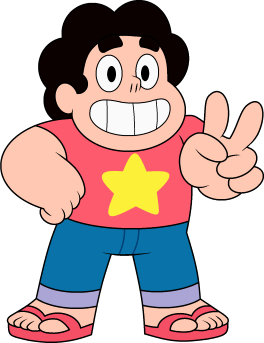
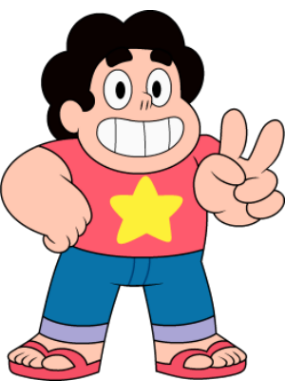
styled images to be similarly sized

diff --git a/testApp/App.js b/testApp/App.js
@@ -10,8 +10,10 @@ export default class App extends React.Component {
       isRotate: true,
       spinSpeed: 1.1,
       imageOfSteven: require('./imageFile/stevenUniverse.png'),
-      dizzyCounter: 0
+      dizzyCounter: 0,
+      needlePosition: '-90deg'
     }
+    const needleData = this.state.needlePosition;
   }
 
   StartImageRotateFunction() {
@@ -24,7 +26,6 @@ export default class App extends React.Component {
         easing: Easing.linear
       }
     ).start(() => this.StartImageRotateFunction())
-
   }
 
   componentDidMount() {
@@ -33,7 +34,7 @@ export default class App extends React.Component {
 
   clickCat(e) {
     e.preventDefault();
-    console.log(this.state.spinSpeed);
+    console.log(this.needleData);
     if( this.state.spinSpeed === 1.1 || this.state.spinSpeed === 0) {
       this.setState({
         spinSpeed: 1
@@ -48,7 +49,8 @@ export default class App extends React.Component {
     } else {
       this.setState({
          someStuff: "WHEEEEEEEEEE",
-         spinSpeed: this.state.spinSpeed - .1
+         spinSpeed: this.state.spinSpeed - .1,
+         // needlePosition: this.state.needlePosition + 15
       });
     }
     if ( this.state.dizzyCounter === 1) {
@@ -66,10 +68,12 @@ export default class App extends React.Component {
     this.setState({
       someStuff: "Here we go!",
       imageOfSteven: require('./imageFile/stevenUniverse.png'),
-      dizzyCounter: 0
+      dizzyCounter: 0,
+      spinSpeed: 1.1
     });
-    this.StartImageRotateFunction();
+    this.render();
   }
+
 
   render() {
     const rotateData = this.RotateValueHolder.interpolate({
@@ -78,29 +82,66 @@ export default class App extends React.Component {
     })
 
     return (
-        <View style={styles.container}>
+      <View style={styles.container1}>
+        <View style={styles.container2}>
           <Text style={styles.header}>SPIN THE STEVEN!</Text>
           <TouchableWithoutFeedback onPress={(e) => this.clickCat(e)}>
-            <Animated.Image
-               style={{ transform: [{ rotate: rotateData }] }}
-               source={this.state.imageOfSteven}
-             />
-         </TouchableWithoutFeedback>
-           <Text>{this.state.someStuff}</Text>
-           <Text onPress={(e) => this.clickCat(e)} style={styles.reset}>Start Over</Text>
+            <Animated.Image style={styles.steven, { transform: [{ rotate: rotateData }] }} source={this.state.imageOfSteven}
+            />
+          </TouchableWithoutFeedback>
+          <Text>{this.state.someStuff}</Text>
+          <Text onPress={(e) => this.resetClick(e)}  style={styles.reset}>Start Over</Text>
         </View>
+        <View style={styles.container3}>
+          <Image source= {require('./imageFile/speedDial.png')} style={styles.dial} />
+        </View>
+        <View style={styles.container4}>
+          <Image source= {require('./imageFile/speedNeedle.png')} style={ styles.needle } />
+        </View>
+      </View>
     );
   }
 }
 
 const styles = StyleSheet.create({
-  container: {
-    flex: 1,
+  container1: {
+    display: 'flex',
+    flex: 3,
     backgroundColor: '#f4f142',
     alignItems: 'center',
-    justifyContent: 'center',
+    justifyContent: 'flex-start',
+    paddingTop: 50,
+    overflow: 'visible',
+
+  },
+  container2: {
+    display: 'flex',
+    justifyContent: 'flex-start',
+    alignItems: 'center',
+  },
+  container3: {
+    display: 'flex',
+    justifyContent: 'flex-end'
+  },
+  container4: {
+    display: 'flex',
+    justifyContent: 'flex-end'
   },
   reset: {
-    paddingTop: 20
+    display: 'flex',
+    zIndex: 9,
+  },
+  dial: {
+    display: 'flex',
+    zIndex: 3,
+    top: 50,
+    overflow: 'visible',
+  },
+  needle: {
+    display: 'flex',
+    zIndex: 4,
+    top: -160,
+    overflow: 'visible',
+    transform: [{rotate: '-90deg'}]
   }
 });
